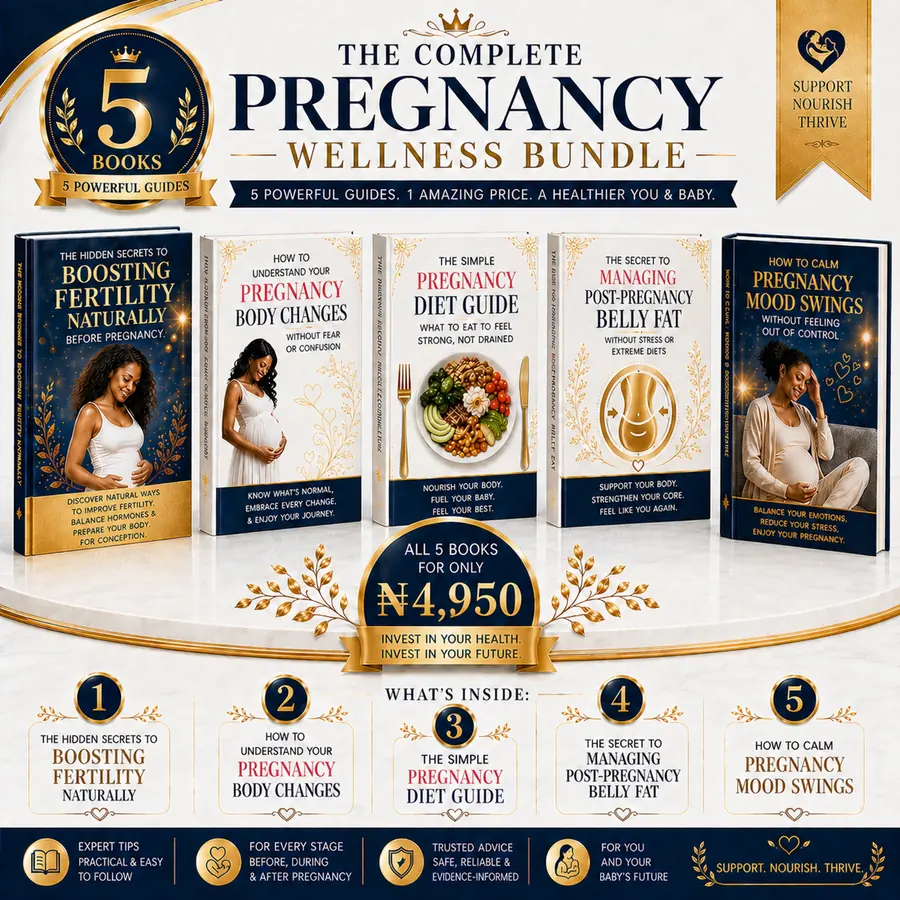
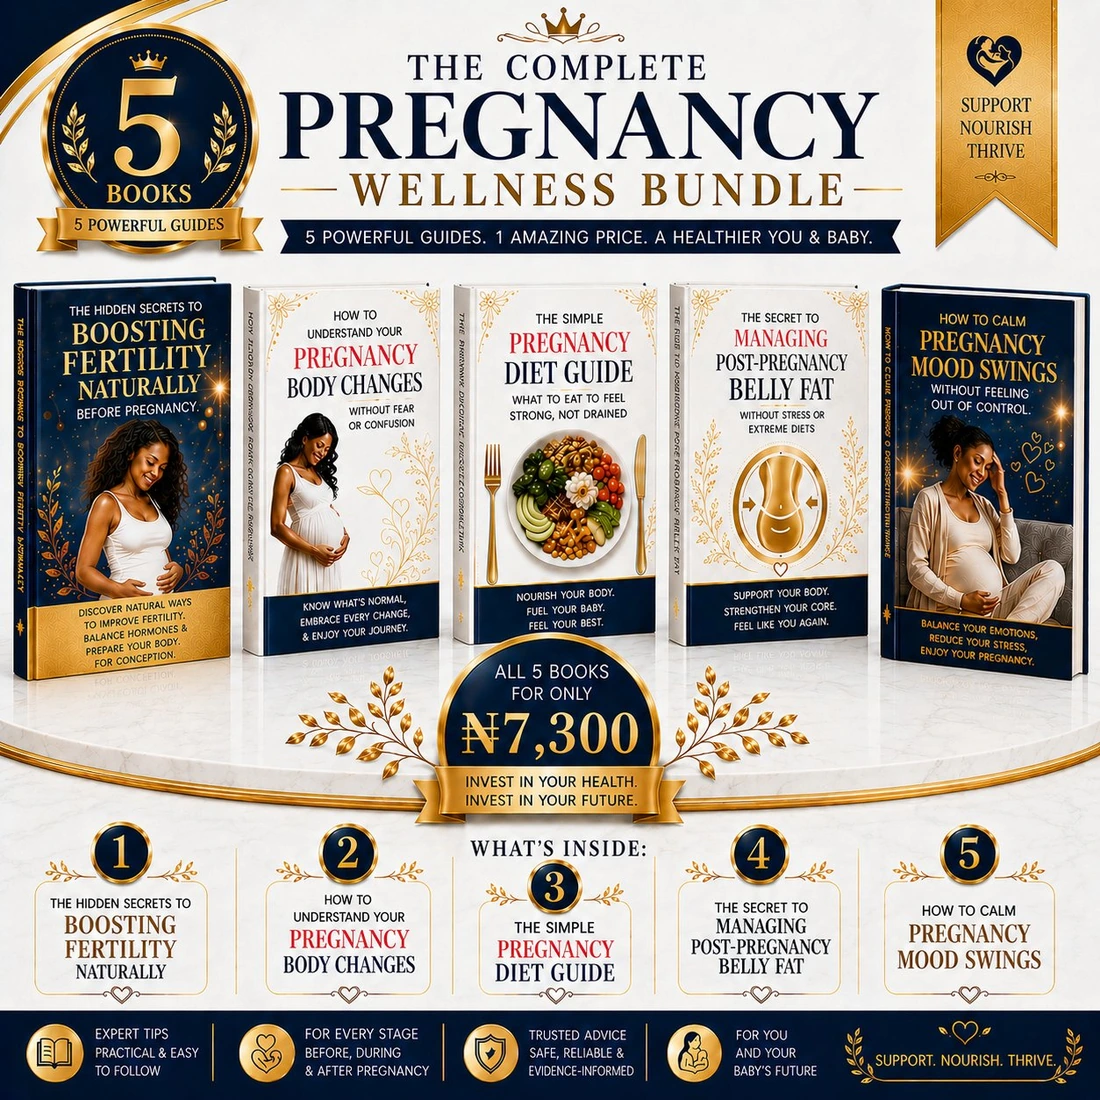
Add files via upload

Changed region(s): [[0.0, 0.0, 1.0, 0.9956], [0.0, 0.7467, 0.1867, 0.9956]]

diff --git a/index.html b/index.html
@@ -165,7 +165,7 @@ footer{background:var(--navy);color:#4455aa;text-align:center;padding:20px;font-
   <div class="gdiv"><span>✦</span></div>
 
   <section class="hero">
-    <img src="images/bundle.webp" alt="The Complete Pregnancy Wellness Bundle — 5 Powerful Guides" loading="eager">
+    <img src="images/hero.webp" alt="The Complete Pregnancy Wellness Bundle — Hero Image" loading="eager">
   </section>
 
   <section class="prose">
@@ -222,78 +222,6 @@ footer{background:var(--navy);color:#4455aa;text-align:center;padding:20px;font-
     </div>
   </div>
 
-  <!-- ═══ EARLY CTA — after emotional proof + social proof of quality ═══ -->
-  <div class="early-cta">
-    <p class="ec-lead">Five guides that put <em>you</em> at the centre of your pregnancy journey — all for less than the cost of a single consultation.</p>
-    <div class="price-line">
-      <span class="old">₦25,000</span>
-      <span class="new">₦4,950</span>
-    </div>
-    <span class="save-tag">✦ You save ₦20,050 on the complete bundle ✦</span><br>
-    <a href="https://selar.com/7n576566i7" class="btn">Get Instant Access — ₦4,950 →</a>
-    <p class="csub" style="margin-top:10px;font-size:.72rem;color:var(--muted);">Digital delivery · All 5 guides · Access immediately after purchase</p>
-  </div>
-
-  <div class="bi">
-    <strong>✦ Inside This Complete Package ✦</strong>
-    <p>5 focused guides covering your wellness before, during, and after pregnancy — your body, your nutrition, your emotions, and your recovery:</p>
-  </div>
-
-  <div class="bc">
-    <div class="bi2"><img src="images/book1.webp" alt="Boosting Fertility Naturally" loading="lazy"></div>
-    <div class="binfo">
-      <p class="bnum">Guide 01</p>
-      <h3 class="btitle">The Hidden Secrets to Boosting Fertility Naturally Before Pregnancy</h3>
-      <p class="bdesc">Hormone balance, nutrition timing, lifestyle adjustments, and the often-overlooked factors that make conception feel less like chance and more like preparation.</p>
-      <p class="bprice">Individual value: <strong>₦5,000</strong></p>
-      <div class="btags"><span>Natural Solutions</span><span>Hormone Balance</span><span>Pre-Conception</span></div>
-    </div>
-  </div>
-
-  <div class="bc">
-    <div class="bi2"><img src="images/book2.webp" alt="Pregnancy Body Changes" loading="lazy"></div>
-    <div class="binfo">
-      <p class="bnum">Guide 02</p>
-      <h3 class="btitle">How to Understand Your Pregnancy Body Changes Without Fear or Confusion</h3>
-      <p class="bdesc">Physical, hormonal, emotional changes — trimester by trimester — so every shift feels like information instead of a cause for panic. Know what's normal. Move through pregnancy with quiet confidence.</p>
-      <p class="bprice">Individual value: <strong>₦5,000</strong></p>
-      <div class="btags"><span>Body Awareness</span><span>Trimester Guide</span><span>Emotional Readiness</span></div>
-    </div>
-  </div>
-
-  <div class="bc">
-    <div class="bi2"><img src="images/book3.webp" alt="Pregnancy Diet Guide" loading="lazy"></div>
-    <div class="binfo">
-      <p class="bnum">Guide 03</p>
-      <h3 class="btitle">The Simple Pregnancy Diet Guide: What to Eat to Feel Strong, Not Drained</h3>
-      <p class="bdesc">A clear, realistic framework for eating well during pregnancy. Fuel your body, support your baby's development, and combat fatigue through every trimester — without obsessing over every meal.</p>
-      <p class="bprice">Individual value: <strong>₦5,000</strong></p>
-      <div class="btags"><span>Nutritious Foods</span><span>Combat Fatigue</span><span>Healthy Weight</span></div>
-    </div>
-  </div>
-
-  <div class="bc">
-    <div class="bi2"><img src="images/book4.webp" alt="Post-Pregnancy Belly Fat" loading="lazy"></div>
-    <div class="binfo">
-      <p class="bnum">Guide 04</p>
-      <h3 class="btitle">The Secret to Managing Post-Pregnancy Belly Fat Without Stress or Extreme Diets</h3>
-      <p class="bdesc">A gentle, science-backed approach to restoring core strength, improving posture, and supporting metabolism — without punishing diets or high-intensity pressure.</p>
-      <p class="bprice">Individual value: <strong>₦5,000</strong></p>
-      <div class="btags"><span>Core Strength</span><span>Natural Recovery</span><span>Metabolism Support</span></div>
-    </div>
-  </div>
-
-  <div class="bc">
-    <div class="bi2"><img src="images/book5.webp" alt="Pregnancy Mood Swings" loading="lazy"></div>
-    <div class="binfo">
-      <p class="bnum">Guide 05</p>
-      <h3 class="btitle">How to Calm Pregnancy Mood Swings Without Feeling Out of Control</h3>
-      <p class="bdesc">Understand the emotional patterns of pregnancy and postpartum, manage them with practical tools, and reclaim calm, clarity, and joy — even on the difficult days.</p>
-      <p class="bprice">Individual value: <strong>₦5,000</strong></p>
-      <div class="btags"><span>Emotional Wellness</span><span>Stress Reduction</span><span>Mental Clarity</span></div>
-    </div>
-  </div>
-
   <div class="gdiv"><span>✦</span></div>
 
   <div class="sh">
@@ -315,7 +243,7 @@ footer{background:var(--navy);color:#4455aa;text-align:center;padding:20px;font-
   </div>
 
   <div class="bundle-img">
-    <img src="images/bundle.webp" alt="The Complete Pregnancy Wellness Bundle" loading="lazy">
+    <img src="images/bundle.webp" alt="The Complete Pregnancy Wellness Bundle — Full View" loading="lazy">
   </div>
 
   <div class="pb">
@@ -338,8 +266,8 @@ footer{background:var(--navy);color:#4455aa;text-align:center;padding:20px;font-
       <div class="vb-row total"><span>Total Individual Value</span><span>₦25,000</span></div>
     </div>
     <p class="pold">Individual Total: ₦25,000</p>
-    <p class="pnew">₦4,950</p>
-    <p class="psaving">You save ₦20,050 — bundle offer active</p>
+    <p class="pnew">₦7,300</p>
+    <p class="psaving">You save ₦17,700 — bundle offer active</p>
     <p class="pnote">All 5 resources included. One investment in your health and your future.</p>
     <a href="https://selar.com/7n576566i7" class="btn">Get the Complete Bundle Now →</a>
     <p class="csub">Instant access · Digital delivery · Support before, during &amp; after pregnancy</p>
@@ -386,10 +314,10 @@ footer{background:var(--navy);color:#4455aa;text-align:center;padding:20px;font-
     <p class="plbl">✦ Your Journey Deserves Full Support ✦</p>
     <p class="ptitle">The Complete Pregnancy Wellness Bundle</p>
     <p class="pold">Individual Value: ₦25,000</p>
-    <p class="pnew">₦4,950</p>
-    <p class="psaving">Bundle offer — save ₦20,050</p>
+    <p class="pnew">₦7,300</p>
+    <p class="psaving">Bundle offer — save ₦17,700</p>
     <p class="pnote">5 guides. 1 complete system. Everything you need — now.</p>
-    <a href="https://selar.com/7n576566i7" class="btn">Claim Your Bundle for ₦4,950 →</a>
+    <a href="https://selar.com/7n576566i7" class="btn">Claim Your Bundle for ₦7,300 →</a>
     <p class="csub">Support. Nourish. Thrive.</p>
   </div>
 